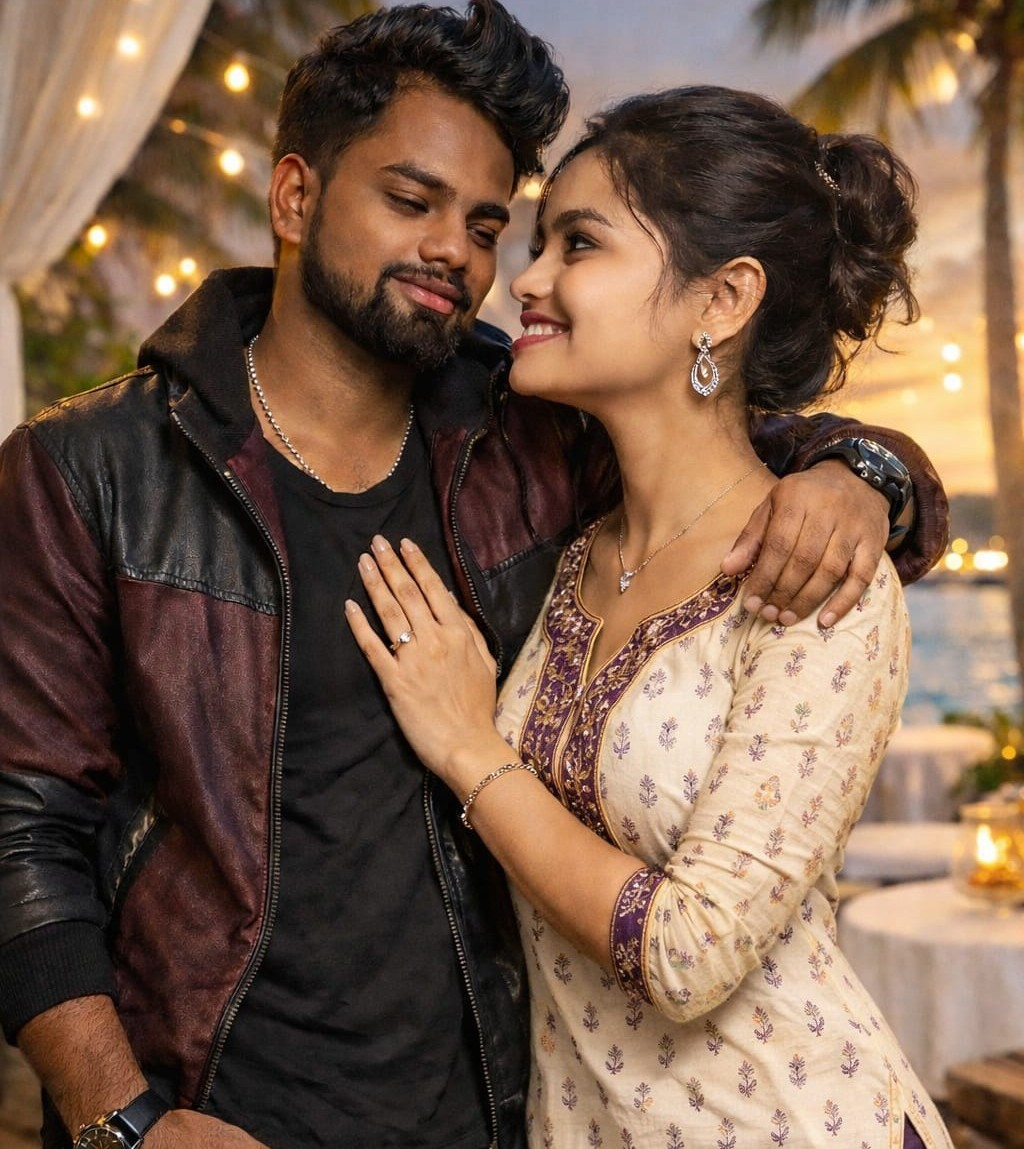
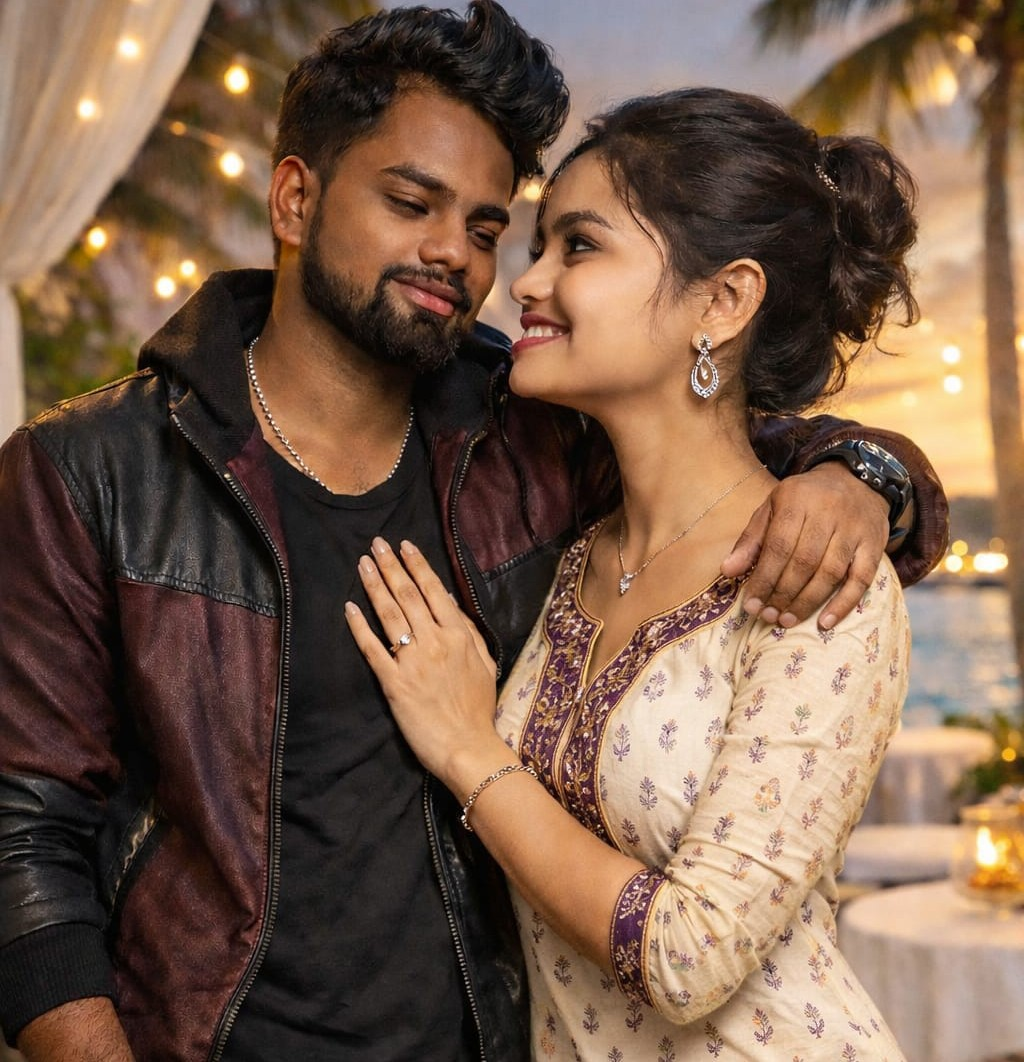
code

diff --git a/index.html b/index.html
@@ -54,7 +54,7 @@
                         <img src="love7.jpeg" alt="Sweet neмогу">
                         <div class="photo-overlay">
                             <div class="photo-caption">Your smile lights up my world</div>
-                            <button class="like-btn" onclicks toggleLike(this)>
+                            <button class="like-btn" onclicks="toggleLike(this)">
                                 <span class="heart-icon"></span>
                             </button>
                         </div>
@@ -82,13 +82,13 @@
                         </div>
                     </div>
                 </div>
+
                 <div class="photo-card" data-aos="fade-up" data-delay="500">
                     <div class="photo-container">
-                        <img src="love6.jpeg" alt="Beautiful day">
+                        <img src="love8.jpeg" alt="Love moment">
                         <div class="photo-overlay">
-
-                            <div class="photo-caption">Creating memories together</div>
-                            <button class="like-btn" onclick="toggleLike(this)">
+                            <div class="photo-caption">Happines for you</div>
+                            <button class="like-btn" onclick="togglelike(this)">
                                 <span class="heart-icon"></span>
                             </button>
                         </div>
@@ -96,9 +96,42 @@
                 </div>
                 <div class="photo-card" data-aos="fade-up" data-delay="600">
                     <div class="photo-container">
+                        <img src="love6.jpeg" alt="Beautiful day">
+                        <div class="photo-overlay">
+                            <div class="photo-caption">Creating memories together</div>
+                            <button class="like-btn" onclick="toggleLike(this)">
+                                <span class="heart-icon"></span>
+                            </button>
+                        </div>
+                    </div>
+                </div>
+                <div class="photo-card" data-aos="fade-up" data-delay="700">
+                    <div class="photo-container">
                         <img src="love1.jpeg" alt="Romantic moment">
                         <div class="photo-overlay">
                             <div class="photo-caption">Forever and always</div>
+                            <button class="like-btn" onclick="toggleLike(this)">
+                                <span class="heart-icon"></span>
+                            </button>
+                        </div>
+                    </div>
+                </div>
+                <div class="photo-card" data-aos="fade-up" data-delay="800">
+                    <div class="photo-container">
+                        <img src="love9.jpeg" alt="Romantic moment">
+                        <div class="photo-overlay">
+                            <div class="photo-caption">always with you</div>
+                            <button class="like-btn" onclick="toggleLike(this)">
+                                <span class="heart-icon"></span>
+                            </button>
+                        </div>
+                    </div>
+                </div>
+                <div class="photo-card" data-aos="fade-up" data-delay="800">
+                    <div class="photo-container">
+                        <img src="love10.jpeg" alt="Romantic moment">
+                        <div class="photo-overlay">
+                            <div class="photo-caption">Love forever</div>
                             <button class="like-btn" onclick="toggleLike(this)">
                                 <span class="heart-icon"></span>
                             </button>

diff --git a/style.css b/style.css
@@ -390,7 +390,7 @@ body {
   font-family: 'Dancing Script', cursive;
   font-size: clamp(2rem, 4vw, 3rem);
   margin-bottom: 40px;
-  color: #fff;
+  color: #8d0d42;
 }
 
 /* Message Text */
@@ -414,7 +414,7 @@ body {
   font-size: 1.3rem;
   font-weight: 600;
   margin-top: 30px;
-  color: #ffeb3b;
+  color: yellow;
 }
 
 /* Message Hearts */
